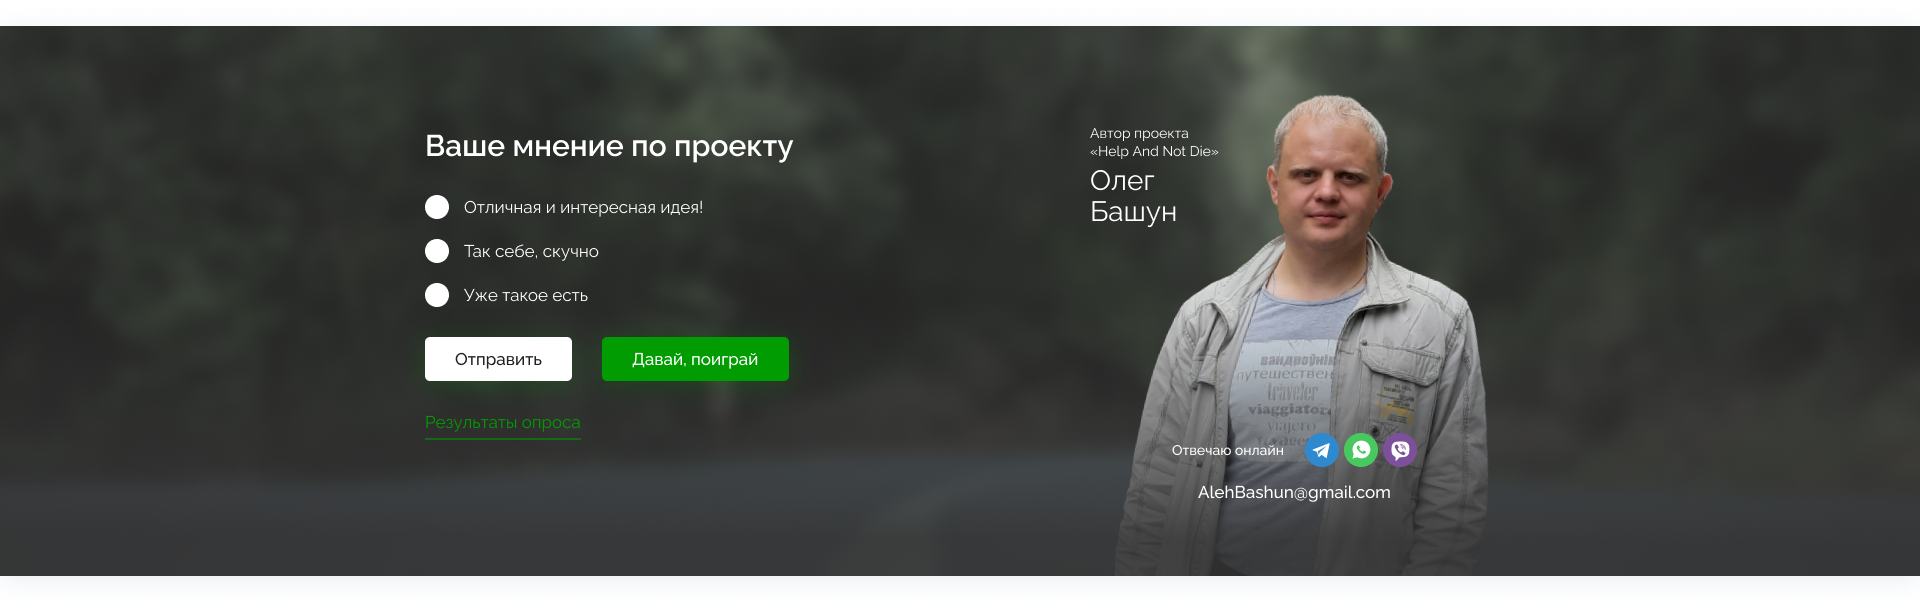
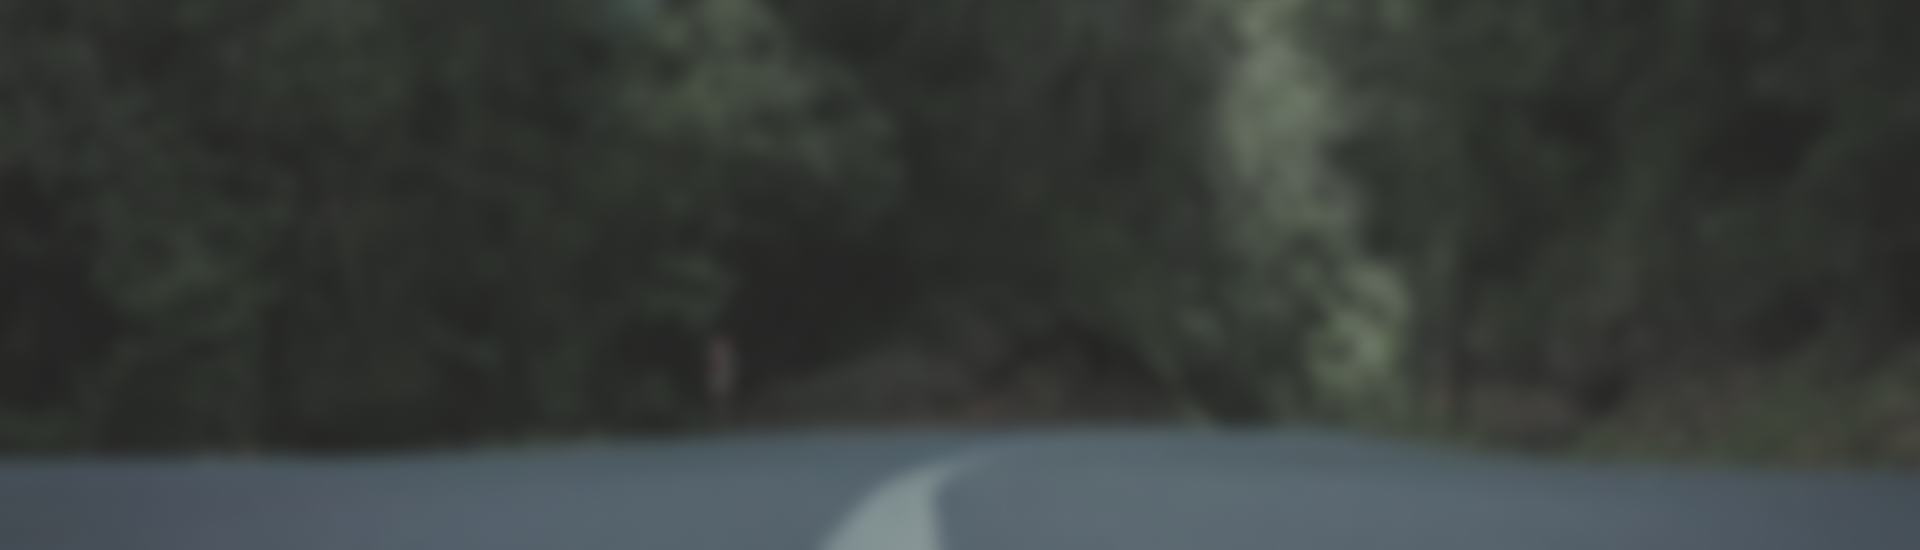
add style in  third and fourthblock (MainPage.js)

diff --git a/src/components/mainPage/MainPage.js b/src/components/mainPage/MainPage.js
@@ -15,6 +15,7 @@ import card1 from "../../utils/img/imgs_main_page/f5/card1.png";
 import card2 from "../../utils/img/imgs_main_page/f5/card2.png";
 import card3 from "../../utils/img/imgs_main_page/f5/card2.png";
 import card4 from "../../utils/img/imgs_main_page/f5/card3.png";
+import Form from "./form/Form";
 
 
 function MainPage() {
@@ -93,26 +94,28 @@ function MainPage() {
                 </video>
             </section>
             <section className="fourth_section">
-                <div>
-                    <form action="">
-                        <h1>Ваше мнение по проекту</h1>
-
-                    </form>
+                <div className="container">
+                <div className="fourth_section_with_form">
+                    <h1>Ваше мнение по проекту</h1>
+                    <Form/>
                 </div>
-                <div>
-                    <p>Автор проекта</p>
-                    <p>«Help And Not Die»</p>
-                    <h2>Олег</h2>
-                    <h2>Башун</h2>
-                </div>
-                <div>
-                    <div>
-                        <p>Отвечаю онлайн</p>
-                        {/*<a href="/"></a>*/}
-                        {/*<a href="/"></a>*/}
-                        {/*<a href="/"></a>*/}
+                    <div className="fourth_section_with_text">
+                        <div>
+                            <p>Автор проекта</p>
+                            <p>«Help And Not Die»</p>
+                            <h2>Олег</h2>
+                            <h2>Башун</h2>
+                        </div>
+                        <div>
+                            <div>
+                                <p>Отвечаю онлайн</p>
+                                {/*<a href="/"></a>*/}
+                                {/*<a href="/"></a>*/}
+                            {/*<a href="/"></a>*/}
+                        </div>
+                        <a href="https://AlehBashun@gmail.com">AlehBashun@gmail.com</a>
                     </div>
-                    <a href="https://AlehBashun@gmail.com">AlehBashun@gmail.com</a>
+                </div>
                 </div>
             </section>
             <section className="fifth_section">

diff --git a/src/components/mainPage/form/Form.js b/src/components/mainPage/form/Form.js
@@ -1,0 +1,60 @@
+import React, {useState} from 'react';
+import Button from "../../../utils/button/Button";
+import "./Form.css"
+
+function Form() {
+    const [selectedOption, setSelectedOption] = useState('');
+
+    const handleOptionChange = (event) => {
+        setSelectedOption(event.target.value);
+    };
+
+    const handleSubmit = (event) => {
+        event.preventDefault();
+        console.log('Выбранное значение:', selectedOption);
+    };
+
+    return (
+        <form onSubmit={handleSubmit} className="form">
+            <div>
+                <label>
+                    <input
+                        type="radio"
+                        value="option1"
+                        checked={selectedOption === 'option1'}
+                        onChange={handleOptionChange}
+                    />
+                    Отличная и интересная идея
+                </label>
+            </div>
+            <div>
+                <label>
+                    <input
+                        type="radio"
+                        value="option2"
+                        checked={selectedOption === 'option2'}
+                        onChange={handleOptionChange}
+                    />
+                    Так себе, скучно
+                </label>
+            </div>
+            <div>
+                <label>
+                    <input
+                        type="radio"
+                        value="option3"
+                        checked={selectedOption === 'option3'}
+                        onChange={handleOptionChange}
+                    />
+                    Уже такое есть
+                </label>
+            </div>
+            <div>
+                <button type="submit">Отправить</button>
+                <Button type="button" placeholder="Давай, поиграй" name="Давай, поиграй" />
+            </div>
+        </form>
+    );
+}
+
+export default Form;

diff --git a/src/components/mainPage/MainPage.scss b/src/components/mainPage/MainPage.scss
@@ -227,7 +227,7 @@
 .third_section_with_video {
   max-width: 1960px;
   width: 100%;
-  margin: 0 auto;
+  margin: 100px auto 0;
   overflow: hidden;
 }
 
@@ -235,8 +235,36 @@
 .fourth_section {
   max-width: 1960px;
   width: 100%;
-  margin: 0 auto;
+  height: 550px;
+  margin: 215px auto 0;
   overflow: hidden;
+  position: relative;
+  background-image: url("../../utils/img/imgs_main_page/f4/banner.png");
+  background-size: cover;
+  .container{
+    max-width: 1290px;
+    margin: 100px auto 0;
+    display: flex;
+    flex-direction: row;
+    justify-content: space-between;
+    align-items: center;
+  }
+
+  &_with_form{
+    margin-left: 120px;
+    h1{
+      font-family: $font-family, sans-serif;
+      font-size: 30px;
+      font-weight: 600;
+      line-height: 39px;
+      letter-spacing: 0em;
+      text-align: left;
+      color: #FFFFFF;
+    }
+  }
+  &_with_text{
+    margin-right: 350px;
+  }
 }
 
 .fifth_section {

diff --git a/src/components/mainPage/MainPage.css b/src/components/mainPage/MainPage.css
@@ -193,15 +193,42 @@
 .third_section_with_video {
   max-width: 1960px;
   width: 100%;
-  margin: 0 auto;
+  margin: 100px auto 0;
   overflow: hidden;
 }
 
 .fourth_section {
   max-width: 1960px;
   width: 100%;
-  margin: 0 auto;
+  height: 550px;
+  margin: 215px auto 0;
   overflow: hidden;
+  position: relative;
+  background-image: url("../../utils/img/imgs_main_page/f4/banner.png");
+  background-size: cover;
+}
+.fourth_section .container {
+  max-width: 1290px;
+  margin: 100px auto 0;
+  display: flex;
+  flex-direction: row;
+  justify-content: space-between;
+  align-items: center;
+}
+.fourth_section_with_form {
+  margin-left: 120px;
+}
+.fourth_section_with_form h1 {
+  font-family: Raleway, sans-serif;
+  font-size: 30px;
+  font-weight: 600;
+  line-height: 39px;
+  letter-spacing: 0em;
+  text-align: left;
+  color: #FFFFFF;
+}
+.fourth_section_with_text {
+  margin-right: 350px;
 }
 
 .fifth_section {

diff --git a/src/components/App.css b/src/components/App.css
@@ -2,6 +2,9 @@
   margin: 0;
   padding: 0;
   box-sizing: border-box;
+}
+
+body {
   background-color: #F8F8F8;
 }
 

diff --git a/src/components/App.scss b/src/components/App.scss
@@ -2,6 +2,9 @@
   margin: 0;
   padding: 0;
   box-sizing: border-box;
+
+}
+body{
   background-color: #F8F8F8;
 }
 

diff --git a/src/components/mainPage/form/Form.css b/src/components/mainPage/form/Form.css
@@ -1,0 +1,3 @@
+
+
+/*# sourceMappingURL=Form.css.map */

diff --git a/src/components/mainPage/form/Form.scss b/src/components/mainPage/form/Form.scss
@@ -1,0 +1,2 @@
+.form{
+}
